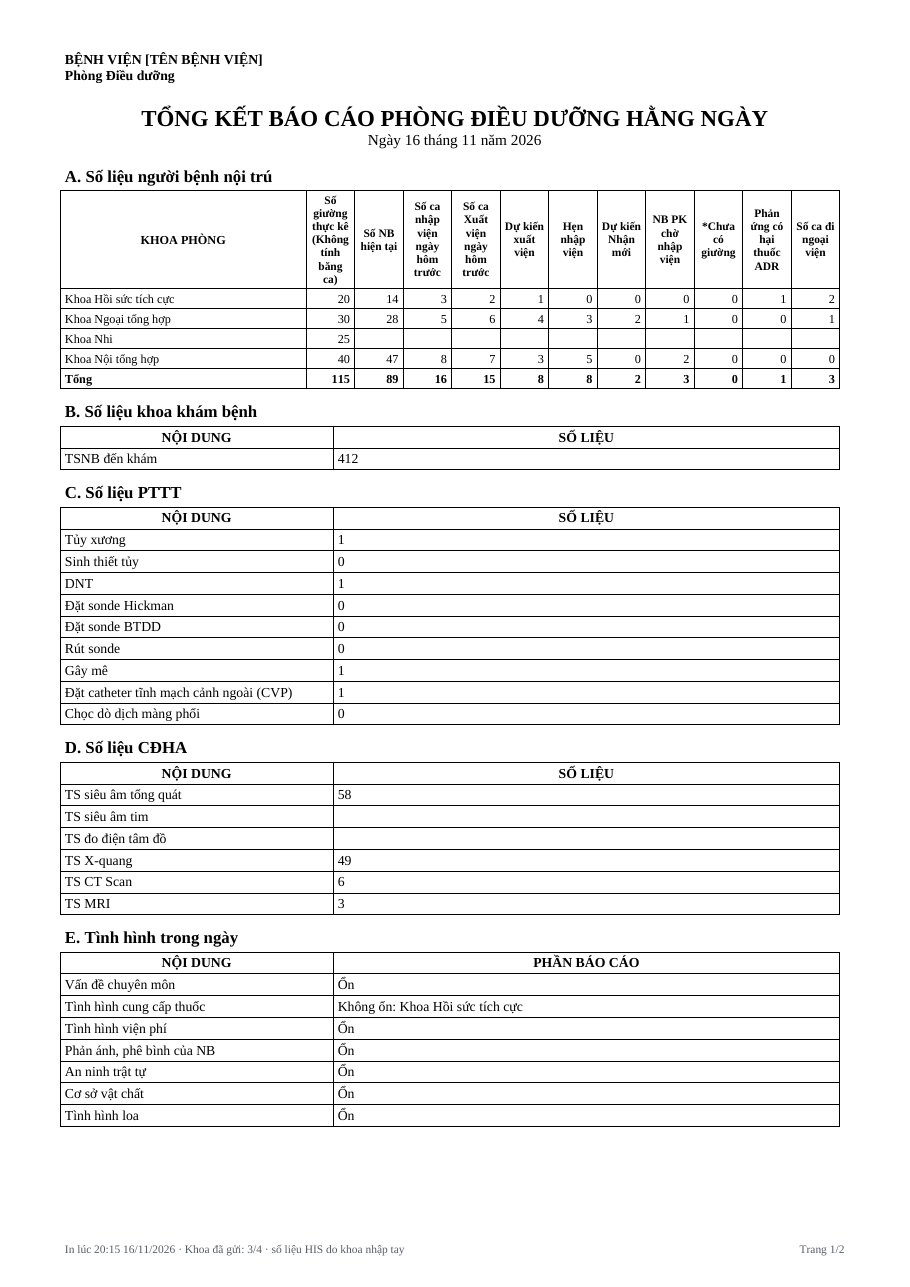
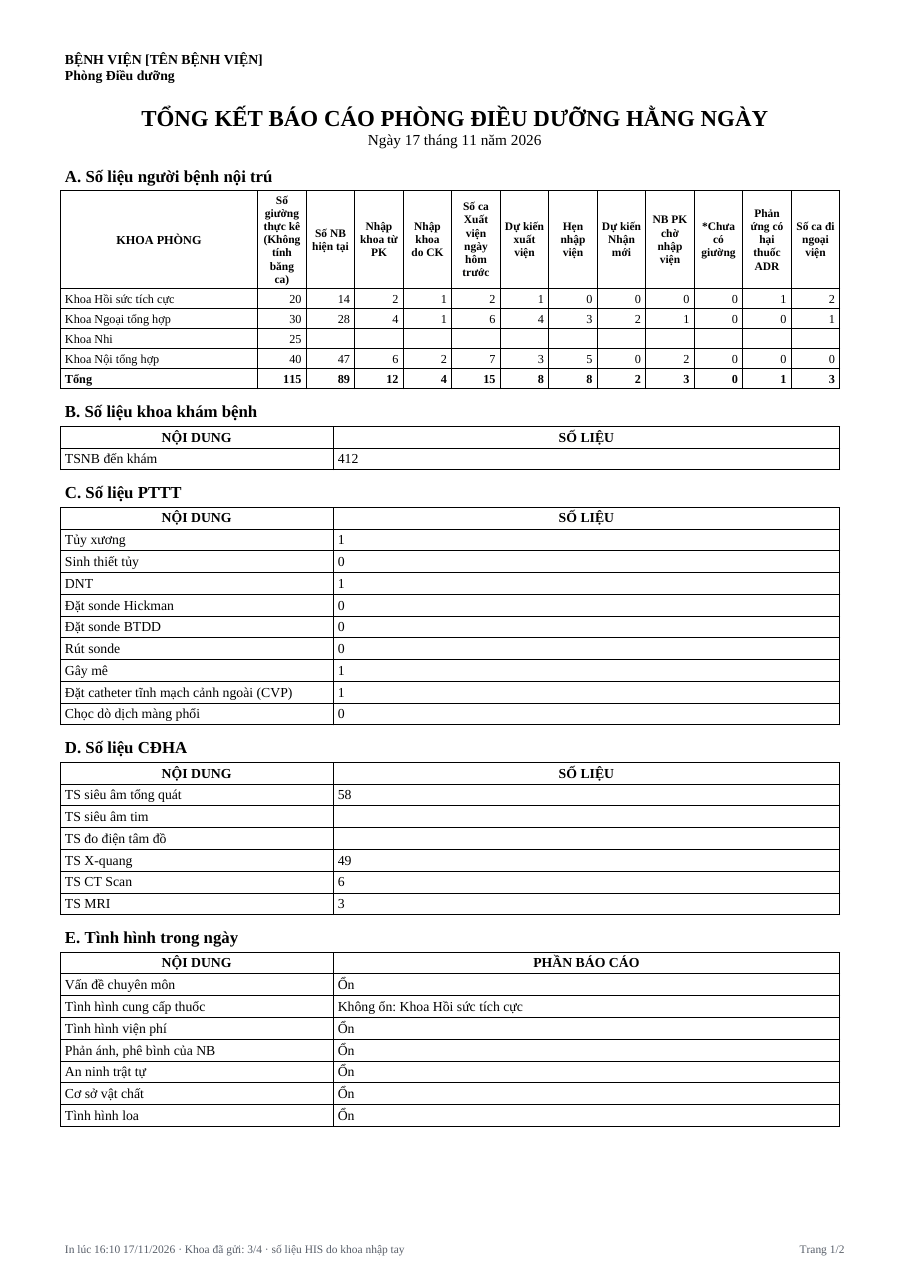
Bảng tổng hợp điều dưỡng: tách cột "Số ca nhập viện ngày hôm trước" thành Nhập khoa từ PK và Nhập khoa do CK (quyết định 38)
Bệnh viện yêu cầu tách cột ở mục A của bảng tổng hợp Phòng Điều dưỡng. Bảng
tổng hợp cộng số từ báo cáo khoa, nên báo cáo khoa cũng tách dòng.
- Báo cáo khoa, mục VI: dòng "Số ca nhập viện ngày hôm trước" thay bằng "Số ca
  nhập khoa từ PK ngày hôm trước" và "Số ca nhập khoa do CK ngày hôm trước"
  (khóa admissionsFromClinic, admissionsByTransfer).
- Bảng tổng hợp mục A: hai cột "Nhập khoa từ PK", "Nhập khoa do CK" đứng đúng
  chỗ cột cũ, trên màn hình, PDF và Excel. Excel lấy số cột theo mẫu (trước đây
  cố định 11 cột). Cột số trên màn hình hẹp lại (84 điểm ảnh) để 12 cột vẫn vừa
  màn hình 1366 điểm ảnh.
- Báo cáo lưu trước đó chỉ có số tổng (khóa cũ admissionsYesterday): vẫn đọc
  được để nhận ra, hai cột mới của khoa đó để trống, không ghi 0; khóa cũ
  không nhập mới được.
- Test: mẫu (thứ tự cột, tên cột và dòng), tổng hợp có hai cột mới, báo cáo cũ
  để trống, khóa cũ bị từ chối; PDF báo cáo khoa và bảng tổng hợp; Excel 13
  cột (A–M).
- Tài liệu: hướng dẫn sử dụng 9.1, 9.2 (chụp lại ảnh bảng tổng hợp và PDF bảng
  tổng hợp), triển khai 5.7, quyết định 38. Không có migration.

Claude-Session: https://claude.ai/code/session_01HqEeJxKsVGMM8DuiZkvcED

Changed region(s): [[0.2769, 0.1554, 0.4923, 0.2486]]

diff --git a/frontend/src/features/nursing/NursingSummaryPage.tsx b/frontend/src/features/nursing/NursingSummaryPage.tsx
@@ -217,7 +217,8 @@ export function SummaryView({ summary, onOpen }: { summary: NursingSummary; onOp
       title: c.header,
       key: c.key,
       align: 'right' as const,
-      width: 96,
+      // 12 cột số (quyết định 38) vẫn vừa màn hình rộng 1366 điểm ảnh, không phải cuộn ngang.
+      width: 84,
       render: (_: unknown, row: NursingSummaryRow) => number(row.cells[c.key]),
     })),
   ]

diff --git a/backend/tests/Consent.Application.Tests/NursingReportServiceTests.cs b/backend/tests/Consent.Application.Tests/NursingReportServiceTests.cs
@@ -274,7 +274,8 @@ public sealed class NursingReportServiceTests
         var surgeryNurse = _ctx.AddUser("dieuduong.ngoaib", SystemRoles.Nurse, departmentId: _surgery.Id);
         await SubmitAsync(_surgery, surgeryNurse, new()
         {
-            ["currentPatients"] = 20, ["admissionsYesterday"] = 4, ["dischargesYesterday"] = 3, ["expectedDischarges"] = 2,
+            ["currentPatients"] = 20, ["admissionsFromClinic"] = 3, ["admissionsByTransfer"] = 1, ["dischargesYesterday"] = 3,
+            ["expectedDischarges"] = 2,
             ["newAdmissions"] = 1, ["adr"] = 1, ["outsideExams"] = 1, ["transfers"] = 1,
             ["boneMarrow"] = 2, ["paracentesis"] = 5, ["cvp"] = 1,
         });
@@ -300,6 +301,8 @@ public sealed class NursingReportServiceTests
         Assert.Equal(surgeryNurse.FullName, surgery.SubmittedBy);
         Assert.Equal(25, surgery.Cells["beds"]);
         Assert.Equal(20, surgery.Cells["currentPatients"]);
+        Assert.Equal(3, surgery.Cells["admissionsFromClinic"]);
+        Assert.Equal(1, surgery.Cells["admissionsByTransfer"]);
         Assert.Equal(0, surgery.Cells["scheduledAdmissions"]);
         Assert.Null(surgery.Cells[NursingHisIndicators.WaitingAdmission]);
         Assert.Equal(1, surgery.Cells["adr"]);
@@ -739,6 +742,39 @@ public sealed class NursingReportServiceTests
     }
 
     [Fact]
+    public async Task Summary_LeavesTheSplitAdmissionColumnsBlank_ForReportsSavedBeforeTheSplit()
+    {
+        // Báo cáo đã gửi trước khi tách cột (quyết định 38): chỉ có số tổng "Số ca nhập viện ngày hôm trước".
+        var legacy = NursingDailyReport.Create(
+            _ward.Id, Today, """{"values":{"admissionsYesterday":4,"currentPatients":40},"checks":{}}""", null, _nurse.Id, _ctx.Clock.UtcNow);
+        legacy.Submit(_nurse.Id, _ctx.Clock.UtcNow);
+        _ctx.Store.NursingReports.Add(legacy);
+        var surgeryNurse = _ctx.AddUser("dieuduong.ngoaib", SystemRoles.Nurse, departmentId: _surgery.Id);
+        await SubmitAsync(_surgery, surgeryNurse, new() { ["admissionsFromClinic"] = 2 });
+
+        ActAs(_office, Permissions.NursingReportsRead, Permissions.NursingReportsManage);
+        var summary = await _ctx.CreateNursingSummaryService().GetAsync(Today, CancellationToken.None);
+
+        var ward = summary.Rows.Single(r => r.DepartmentId == _ward.Id);
+        Assert.Null(ward.Cells["admissionsFromClinic"]);
+        Assert.Null(ward.Cells["admissionsByTransfer"]);
+        Assert.Equal(40, ward.Cells["currentPatients"]);
+        Assert.Equal(0, ward.Cells["noBed"]);
+        // Báo cáo mới bỏ trống một dòng thì tính 0 như mọi ô khác.
+        var surgery = summary.Rows.Single(r => r.DepartmentId == _surgery.Id);
+        Assert.Equal(2, surgery.Cells["admissionsFromClinic"]);
+        Assert.Equal(0, surgery.Cells["admissionsByTransfer"]);
+        Assert.Equal(2, summary.Totals["admissionsFromClinic"]);
+        Assert.Equal(0, summary.Totals["admissionsByTransfer"]);
+
+        // Khoa không nhập mới được số tổng cũ.
+        ActAs(_nurse, Permissions.NursingReportsSubmit);
+        var old = await _ctx.CreateNursingReportService().SaveAsync(
+            Request(new() { ["admissionsYesterday"] = 4 }, date: Today.AddDays(-1)), CancellationToken.None);
+        Assert.True(old.Error!.FieldErrors!.ContainsKey("values.admissionsYesterday"));
+    }
+
+    [Fact]
     public void Form_FollowsThePaperForm()
     {
         var form = NursingReportService.Form;
@@ -747,11 +783,21 @@ public sealed class NursingReportServiceTests
             ["I. NHÂN SỰ", "II. NHÂN VIÊN TRONG NGÀY", "III. TÌNH HÌNH NGƯỜI BỆNH", "IV. PHẢN ỨNG CÓ HẠI THUỐC (ADR)",
              "V. SỐ CA ĐI NGOẠI VIỆN", "VI. SỐ LƯỢNG NB"],
             form.Sections.Select(s => s.Title));
-        Assert.Equal([4, 8, 30, 0, 4, 8], form.Sections.Select(s => s.Items.Count));
+        Assert.Equal([4, 8, 30, 0, 4, 9], form.Sections.Select(s => s.Items.Count));
         Assert.Equal("adr", form.Sections[3].ValueKey);
         Assert.Equal(8, form.Checks.Count);
-        Assert.Equal(55, NursingReportForm.ValueKeys.Count);
-        Assert.Equal(11, NursingReportForm.SummaryColumns.Count);
+        Assert.Equal(56, NursingReportForm.ValueKeys.Count);
+        // Bảng A: cột "Số ca nhập viện ngày hôm trước" của bản giấy tách thành nhập khoa từ PK và do CK (quyết định 38).
+        Assert.Equal(
+            ["beds", "currentPatients", "admissionsFromClinic", "admissionsByTransfer", "dischargesYesterday", "expectedDischarges",
+             "scheduledAdmissions", "newAdmissions", "waitingAdmission", "noBed", "adr", "outsideVisits"],
+            NursingReportForm.SummaryColumns.Select(c => c.Key));
+        Assert.Equal("Nhập khoa từ PK", NursingReportForm.SummaryColumns[2].Header);
+        Assert.Equal("Nhập khoa do CK", NursingReportForm.SummaryColumns[3].Header);
+        Assert.Equal(
+            ["Số ca nhập khoa từ PK ngày hôm trước", "Số ca nhập khoa do CK ngày hôm trước"],
+            form.Sections[5].Items.Where(i => NursingReportForm.AdmissionKeys.Contains(i.Key)).Select(i => i.Label));
+        Assert.DoesNotContain(NursingReportForm.LegacyAdmissionsKey, NursingReportForm.ValueKeys);
         Assert.All(NursingReportForm.ProcedureLines, l => Assert.Contains(l.Key, NursingReportForm.ValueKeys));
         Assert.All(NursingReportForm.OutsideVisitKeys, k => Assert.Contains(k, NursingReportForm.ValueKeys));
     }

diff --git a/backend/tests/Consent.Infrastructure.Tests/NursingReportDocumentTests.cs b/backend/tests/Consent.Infrastructure.Tests/NursingReportDocumentTests.cs
@@ -94,7 +94,7 @@ public sealed class NursingReportDocumentTests
             Paragraphs(document).Take(3));
 
         var figures = Rows(tables[1]);
-        Assert.Equal(1 + 4 + 1 + 8 + 1 + 30 + 1 + 1 + 4 + 1 + 8, figures.Count);
+        Assert.Equal(1 + 4 + 1 + 8 + 1 + 30 + 1 + 1 + 4 + 1 + 9, figures.Count);
         Assert.Equal(["I. NHÂN SỰ", ""], figures[0]);
         Assert.Equal(["Điều dưỡng", "18"], figures[1]);
         Assert.Equal(["KTV", ""], figures[2]);
@@ -102,6 +102,10 @@ public sealed class NursingReportDocumentTests
         Assert.Contains(["IV. PHẢN ỨNG CÓ HẠI THUỐC (ADR)", "2"], figures);
         Assert.Contains(["Số NB hiện tại", "47"], figures);
         Assert.Contains(["* Chưa có giường", ""], figures);
+        // "Số ca nhập viện ngày hôm trước" tách thành nhập khoa từ PK và do CK (quyết định 38).
+        var admissions = figures.FindIndex(r => r[0] == "Số ca nhập khoa từ PK ngày hôm trước");
+        Assert.Equal(["Số ca nhập khoa do CK ngày hôm trước", ""], figures[admissions + 1]);
+        Assert.DoesNotContain(figures, r => r[0] == "Số ca nhập viện ngày hôm trước");
         // Dòng tiêu đề mục gộp hai cột, trừ mục IV có ô nhập số.
         Assert.Equal(1, tables[1].Rows[0].Cells[0].MergeRight);
 
@@ -142,15 +146,16 @@ public sealed class NursingReportDocumentTests
             paragraphs);
 
         var inpatients = Rows(tables[1]);
-        Assert.Equal(12, inpatients[0].Length);
+        Assert.Equal(13, inpatients[0].Length);
         Assert.Equal("KHOA PHÒNG", inpatients[0][0]);
         Assert.Equal("Số giường thực kê (Không tính băng ca)", inpatients[0][1]);
-        Assert.Equal("Số ca đi ngoại viện", inpatients[0][11]);
+        Assert.Equal(["Nhập khoa từ PK", "Nhập khoa do CK"], inpatients[0][3..5]);
+        Assert.Equal("Số ca đi ngoại viện", inpatients[0][12]);
         Assert.True(tables[1].Rows[0].HeadingFormat);
         // Khoa sắp theo tên; khoa chưa gửi chỉ có số giường và số HIS.
-        Assert.Equal(["Khoa Ngoại B (giả lập)", "25", "20", "0", "0", "0", "0", "0", "", "0", "0", "1"], inpatients[1]);
-        Assert.Equal(["Khoa Nội A (giả lập)", "48", "", "", "", "", "", "", "2", "", "", ""], inpatients[2]);
-        Assert.Equal(["Tổng", "73", "20", "0", "0", "0", "0", "0", "2", "0", "0", "1"], inpatients[3]);
+        Assert.Equal(["Khoa Ngoại B (giả lập)", "25", "20", "0", "0", "0", "0", "0", "0", "", "0", "0", "1"], inpatients[1]);
+        Assert.Equal(["Khoa Nội A (giả lập)", "48", "", "", "", "", "", "", "", "2", "", "", ""], inpatients[2]);
+        Assert.Equal(["Tổng", "73", "20", "0", "0", "0", "0", "0", "0", "2", "0", "0", "1"], inpatients[3]);
 
         Assert.Equal([["NỘI DUNG", "SỐ LIỆU"], ["TSNB đến khám", "686"]], Rows(tables[2]));
         Assert.Equal(["Tủy xương", "3"], Rows(tables[3])[1]);
@@ -183,11 +188,14 @@ public sealed class NursingReportDocumentTests
         Assert.Equal("Phòng Điều dưỡng", Texts(1)[0]);
         Assert.Equal(NursingReportForm.SummaryTitle, Texts(3)[0]);
         Assert.Equal("Ngày 16 tháng 11 năm 2026", Texts(4)[0]);
-        Assert.Contains("A4:L4", merges);
-        Assert.Contains("A5:L5", merges);
+        // Cột khoa phòng và 12 cột số của bảng A (A–M).
+        Assert.Contains("A4:M4", merges);
+        Assert.Contains("A5:M5", merges);
         Assert.Equal("A. Số liệu người bệnh nội trú", Texts(6)[0]);
         Assert.Equal("KHOA PHÒNG", Texts(7)[0]);
-        Assert.Equal(12, rows[7].Cells.Count);
+        Assert.Equal(13, rows[7].Cells.Count);
+        Assert.Equal("Nhập khoa từ PK", Texts(7)[3]);
+        Assert.Equal("Nhập khoa do CK", Texts(7)[4]);
         Assert.Equal(20, rows[8].Cells[2].Value);
         Assert.Null(rows[9].Cells[2].Value);
         Assert.Equal("Tổng", Texts(10)[0]);

diff --git a/backend/src/Consent.Application/NursingReports/NursingReportForm.cs b/backend/src/Consent.Application/NursingReports/NursingReportForm.cs
@@ -72,6 +72,21 @@ public static class NursingReportForm
 
     public const string AdrKey = "adr";
 
+    /// <summary>Số ca nhập khoa từ phòng khám (PK) ngày hôm trước.</summary>
+    public const string AdmissionsFromClinicKey = "admissionsFromClinic";
+
+    /// <summary>Số ca nhập khoa do chuyển khoa (CK) ngày hôm trước.</summary>
+    public const string AdmissionsByTransferKey = "admissionsByTransfer";
+
+    /// <summary>
+    /// Khóa cũ "Số ca nhập viện ngày hôm trước", trước khi tách thành nhập khoa từ PK và do CK (quyết định 38). Báo cáo đã lưu
+    /// với khóa này vẫn đọc được để nhận ra là báo cáo cũ; không nhập mới được.
+    /// </summary>
+    public const string LegacyAdmissionsKey = "admissionsYesterday";
+
+    /// <summary>Hai dòng tách từ "Số ca nhập viện ngày hôm trước" (quyết định 38).</summary>
+    public static IReadOnlyList<string> AdmissionKeys { get; } = [AdmissionsFromClinicKey, AdmissionsByTransferKey];
+
     public static IReadOnlyList<NursingReportSection> Sections { get; } =
     [
         new("I. NHÂN SỰ",
@@ -140,7 +155,8 @@ public static class NursingReportForm
             new("expectedDischarges", "Dự kiến xuất viện"),
             new("scheduledAdmissions", "Hẹn nhập viện"),
             new("newAdmissions", "Nhận mới"),
-            new("admissionsYesterday", "Số ca nhập viện ngày hôm trước"),
+            new(AdmissionsFromClinicKey, "Số ca nhập khoa từ PK ngày hôm trước"),
+            new(AdmissionsByTransferKey, "Số ca nhập khoa do CK ngày hôm trước"),
             new("dischargesYesterday", "Số ca xuất viện ngày hôm trước"),
             new("noBed", "* Chưa có giường"),
         ]),
@@ -166,12 +182,16 @@ public static class NursingReportForm
     /// <summary>Tên cột "NB PK chờ nhập viện" (người bệnh phòng khám chờ nhập viện) trên bảng tổng hợp.</summary>
     public const string WaitingAdmissionLabel = "NB PK chờ nhập viện";
 
-    /// <summary>Cột số của bảng A, theo thứ tự bản giấy.</summary>
+    /// <summary>
+    /// Cột số của bảng A, theo thứ tự bản giấy; cột "Số ca nhập viện ngày hôm trước" của bản giấy tách thành nhập khoa từ PK và
+    /// do CK (quyết định 38).
+    /// </summary>
     public static IReadOnlyList<NursingSummaryColumn> SummaryColumns { get; } =
     [
         new(BedsColumn, "Số giường thực kê (Không tính băng ca)"),
         new("currentPatients", "Số NB hiện tại"),
-        new("admissionsYesterday", "Số ca nhập viện ngày hôm trước"),
+        new(AdmissionsFromClinicKey, "Nhập khoa từ PK"),
+        new(AdmissionsByTransferKey, "Nhập khoa do CK"),
         new("dischargesYesterday", "Số ca Xuất viện ngày hôm trước"),
         new("expectedDischarges", "Dự kiến xuất viện"),
         new("scheduledAdmissions", "Hẹn nhập viện"),

diff --git a/backend/src/Consent.Application/NursingReports/NursingReportFigures.cs b/backend/src/Consent.Application/NursingReports/NursingReportFigures.cs
@@ -20,7 +20,14 @@ public sealed record NursingReportFigures(IReadOnlyDictionary<string, int> Value
     public bool AllChecksAnswered => NursingReportForm.CheckKeys.All(Checks.ContainsKey);
 
     /// <summary>
-    /// Đọc JSON đã lưu. Bỏ qua khóa không còn trong mẫu (mẫu bớt dòng) và giá trị sai kiểu, để báo cáo cũ luôn mở được.
+    /// Báo cáo lưu trước khi tách "Số ca nhập viện ngày hôm trước" (quyết định 38): có số tổng cũ, không có hai dòng mới.
+    /// </summary>
+    public bool HasOnlyLegacyAdmissions =>
+        Values.ContainsKey(NursingReportForm.LegacyAdmissionsKey) && !NursingReportForm.AdmissionKeys.Any(Values.ContainsKey);
+
+    /// <summary>
+    /// Đọc JSON đã lưu. Bỏ qua khóa không còn trong mẫu (mẫu bớt dòng) và giá trị sai kiểu, để báo cáo cũ luôn mở được. Riêng số
+    /// tổng "Số ca nhập viện ngày hôm trước" cũ được giữ để nhận ra báo cáo cũ (<see cref="HasOnlyLegacyAdmissions"/>).
     /// </summary>
     public static NursingReportFigures Parse(string? json)
     {
@@ -44,7 +51,8 @@ public sealed record NursingReportFigures(IReadOnlyDictionary<string, int> Value
         {
             foreach (var (key, node) in valueNodes)
             {
-                if (NursingReportForm.ValueKeys.Contains(key) && node is JsonValue value && value.TryGetValue<int>(out var number))
+                if ((NursingReportForm.ValueKeys.Contains(key) || key == NursingReportForm.LegacyAdmissionsKey)
+                    && node is JsonValue value && value.TryGetValue<int>(out var number))
                 {
                     values[key] = number;
                 }

diff --git a/backend/src/Consent.Application/NursingReports/NursingSummaryBuilder.cs b/backend/src/Consent.Application/NursingReports/NursingSummaryBuilder.cs
@@ -126,6 +126,8 @@ public static class NursingSummaryBuilder
             NursingReportForm.BedsColumn => department.BedCount,
             NursingHisIndicators.WaitingAdmission => statistics.Waiting(department.Id),
             _ when figures is null => null,
+            // Báo cáo gửi trước khi tách cột chỉ có số tổng: để trống hai cột mới, không ghi 0 (quyết định 38).
+            _ when figures.HasOnlyLegacyAdmissions && NursingReportForm.AdmissionKeys.Contains(column) => null,
             NursingReportForm.OutsideVisitsColumn => NursingReportForm.OutsideVisitKeys.Sum(k => figures.Value(k) ?? 0),
             _ => figures.Value(column) ?? 0,
         };

diff --git a/backend/src/Consent.Infrastructure/Exports/XlsxNursingSummaryWriter.cs b/backend/src/Consent.Infrastructure/Exports/XlsxNursingSummaryWriter.cs
@@ -20,7 +20,8 @@ internal sealed class XlsxNursingSummaryWriter : INursingSummaryWorkbookWriter
     private const string PackageRelNs = "http://schemas.openxmlformats.org/package/2006/relationships";
 
     /// <summary>Số cột của trang: tên khoa và 11 cột số của bảng A.</summary>
-    private const int LastColumn = 11;
+    /// <summary>Cột cuối (đánh số từ 0): cột khoa phòng rồi các cột số của bảng A.</summary>
+    private static readonly int LastColumn = NursingReportForm.SummaryColumns.Count;
 
     private static readonly XmlWriterSettings XmlSettings = new()
     {

diff --git a/docs/KE_HOACH_TRIEN_KHAI.md b/docs/KE_HOACH_TRIEN_KHAI.md
@@ -626,6 +626,7 @@ Toàn bộ dữ liệu test được sinh giả lập (tên, số CCCD ngẫu nh
 | 35 | Số liệu HIS do khoa nhập khi HIS lỗi (16/11/2026) | Bệnh viện yêu cầu: **HIS lỗi thì mỗi khoa nhập số liệu HIS thuộc nhiệm vụ của khoa; Phòng Điều dưỡng chỉ tổng hợp**, không nhập thay (thay cách Phòng Điều dưỡng nhập tay ở quyết định 31). Khoa phải báo cáo nhập **"NB PK chờ nhập viện"** của khoa mình. Mỗi chỉ số toàn viện của mục B (TSNB đến khám) và mục D (6 chỉ số CĐHA) do **khoa được Phòng Điều dưỡng giao** nhập, ví dụ Khoa Khám bệnh, Khoa Chẩn đoán hình ảnh, Khoa Thăm dò chức năng. Phòng Điều dưỡng giao ở hộp *Khoa báo cáo và số giường*; phần mềm lưu vào cấu hình `NursingReports.HisEntryDepartments`. Khoa nhập ở trang **Báo cáo của khoa**, thẻ *Số liệu HIS khoa nhập khi HIS lỗi*; khoa không phải gửi báo cáo thì trang chỉ có thẻ này. Người nhập cần quyền `nursingreports.submit` và đúng khoa. Số khoa nhập **lưu riêng** theo khoa và ngày (bảng `NursingDepartmentStatistics`), không khóa theo báo cáo đã gửi, có ghi nhật ký. Bảng tổng hợp **dùng số lấy từ HIS trước**; ô HIS không có số mới dùng số khoa nhập, kèm chữ "<khoa> nhập tay". Ô trên cùng của bảng ghi khoa nào đã nhập, khoa nào chưa, để Phòng Điều dưỡng nhắc. Chân PDF và Excel ghi "số liệu HIS do khoa nhập tay". Bỏ nút **Nhập số liệu HIS** và API `PUT /statistics` của Phòng Điều dưỡng; số Phòng Điều dưỡng đã nhập trước khi cài gói vẫn được giữ và hiện như cũ. **Giả định** (cách đơn giản nhất): "NB PK chờ nhập viện" của khoa do chính khoa đó nhập, vì khoa biết người bệnh phòng khám đang chờ vào khoa mình; mỗi chỉ số giao cho một khoa, đổi được bất cứ lúc nào; hai khoa cùng có số của một chỉ số (khi đổi khoa được giao) thì dùng số nhập sau cùng. Migration `AddNursingDepartmentStatistics` (1 bảng mới) |
 | 36 | Nút "Trả lại khoa" (17/11/2026) | Bệnh viện gọi việc Phòng Điều dưỡng mở lại báo cáo đã gửi là **"trả lại khoa"** (trả phiếu): nút **Mở lại** ở báo cáo của khoa (bảng tổng hợp) đổi thành **Trả lại khoa** (biểu tượng mũi tên quay lại), hộp *"Trả lại báo cáo cho khoa sửa"*, ô *"Lý do trả lại"*; khoa thấy *"Phòng Điều dưỡng đã trả lại báo cáo cho khoa (người trả lại)"* kèm lý do; các thông báo lỗi của máy chủ dùng cùng chữ. Cách làm không đổi (báo cáo về nháp, bắt buộc lý do, ghi nhật ký). **Không đổi** API (`POST /{id}/reopen`), CSDL, tên quyền và mô tả vai trò trong trang quản trị (vẫn ghi "mở lại báo cáo", đúng nghĩa; vai trò đã cài không bị đổi mô tả) |
 | 37 | Quét QR CCCD: sửa chữ có dấu bị máy quét gõ lỗi (17/11/2026) | Bệnh viện báo: kiosk quét mã QR căn cước trên **VNeID** thì **địa chỉ không đọc được dấu tiếng Việt**. Thử bằng thư viện camera đang dùng (dữ liệu giả lập): camera đọc đúng mọi kiểu mã QR tiếng Việt chuẩn (UTF-8 một hay nhiều đoạn, có hay không có ECI, Unicode tổ hợp). Nguyên nhân hay gặp là **máy quét 2D ở chế độ bàn phím chưa cài đọc tiếng Việt**: gõ mỗi byte UTF-8 thành một ký tự Windows-1252/1258 ("Ä‘Æ°á»ng"). Họ tên trên kiosk vẫn đúng khi lấy từ HIS, còn địa chỉ lấy thẳng từ mã quét nên lộ lỗi. Sửa (chỉ ở trình duyệt, dùng chung cho kiosk và màn hình nhân viên): bộ đọc mã QR **đổi ngược các ký tự đó thành byte rồi đọc lại UTF-8** cho từng trường, trước khi chuẩn hóa Unicode; chữ tiếng Việt đúng không bao giờ đổi ngược được như vậy nên không bị sửa nhầm (cũng sửa được chuỗi bị mã hóa UTF-8 hai lần). **Địa chỉ vẫn hỏng** (máy quét bỏ mất byte, có dấu "?") thì **bỏ**, kèm cảnh báo cho nhân viên; kiosk không gửi, để không lưu chữ hỏng vào hồ sơ và phiếu. *Giả định:* mã QR của VNeID cùng định dạng mã trên thẻ; chưa thử với mã thật (không dùng dữ liệu thật). Máy quét bỏ mất ký tự thì phần mềm không sửa được: vẫn phải cài máy quét xuất Unicode, hoặc dùng camera. **Bổ sung cùng ngày** (ảnh màn hình kiosk bệnh viện gửi): máy quét của kiosk **bỏ hẳn mọi chữ có dấu** ("ng" thay cho "Đường"). Chữ đã mất không khôi phục được; phần mềm nhận ra kiểu này (chuỗi không còn chữ có dấu và có chữ không nguyên âm, điều không có trong tiếng Việt; chữ viết tắt in hoa như TP, KP không tính), **bỏ địa chỉ**, cảnh báo họ tên; **kiosk không lập hồ sơ mới bằng họ tên hỏng** (đã có hồ sơ thì dùng họ tên trong hồ sơ, chưa có thì mời chọn **Nhập thông tin**); giới tính "N" hiểu là Nữ (chữ "ữ" bị bỏ). Bệnh viện phải cài máy quét (Num Lock, xuất Unicode). Không đổi API, CSDL |
+| 38 | Tách cột số ca nhập viện trên bảng tổng hợp (17/11/2026) | Bệnh viện yêu cầu: bảng tổng hợp của Phòng Điều dưỡng, **mục A**, tách cột "Số ca nhập viện ngày hôm trước" thành hai cột **Nhập khoa từ PK** và **Nhập khoa do CK**. Bảng tổng hợp cộng số từ báo cáo khoa, nên **báo cáo khoa mục VI** cũng thay dòng "Số ca nhập viện ngày hôm trước" bằng hai dòng **Số ca nhập khoa từ PK ngày hôm trước** và **Số ca nhập khoa do CK ngày hôm trước** (khóa `admissionsFromClinic`, `admissionsByTransfer`). Hai cột mới đứng đúng chỗ cột cũ, trên màn hình, PDF và Excel (bảng A nay 12 cột số; cột số trên màn hình hẹp lại để vẫn vừa màn hình 1366 điểm ảnh). *Giả định:* PK là phòng khám, CK là chuyển khoa; tên cột theo đúng bệnh viện ghi, còn tên dòng ở báo cáo khoa giữ cụm "ngày hôm trước" cho rõ. **Báo cáo đã lưu trước đó** chỉ có số tổng (khóa cũ `admissionsYesterday`): vẫn mở được, hai cột mới của khoa đó **để trống, không ghi 0**; khóa cũ không nhập mới được. Không có migration |
 
 **Giả định đang áp dụng**
 - Giai đoạn 1 dùng **tài khoản nội bộ** của ứng dụng, chưa tích hợp AD/SSO.

diff --git a/docs/huong-dan-su-dung.md b/docs/huong-dan-su-dung.md
@@ -1114,7 +1114,7 @@ Mỗi khoa lập một **Báo cáo công tác điều dưỡng** mỗi ngày the
    *Hình 9.1. Menu **Điều dưỡng** chỉ hiện với tài khoản được lập hoặc xem báo cáo điều dưỡng.*
 
 2. Báo cáo lập cho khoa của tài khoản (ghi dưới tên phần mềm, góc trên bên trái). Ngày báo cáo mặc định là hôm nay. Muốn lập bù cho ngày trước, chọn ngày ở góc trên bên phải. Lập bù được trong vòng một năm; không chọn được ngày sau hôm nay.
-3. Nhập số liệu theo mẫu giấy. Ô nào không có số thì để trống. Mục **I. Nhân sự** và ô **Số NB theo chỉ tiêu** được điền sẵn theo báo cáo khoa đã gửi gần nhất: kiểm tra lại cho đúng ngày hôm nay.
+3. Nhập số liệu theo mẫu giấy. Ô nào không có số thì để trống. Mục **I. Nhân sự** và ô **Số NB theo chỉ tiêu** được điền sẵn theo báo cáo khoa đã gửi gần nhất: kiểm tra lại cho đúng ngày hôm nay. Ở mục **VI. Số lượng NB**, số ca nhập viện ngày hôm trước nhập riêng hai dòng: **Số ca nhập khoa từ PK ngày hôm trước** (từ phòng khám) và **Số ca nhập khoa do CK ngày hôm trước** (khoa khác chuyển đến).
 
    ![Báo cáo mới của khoa, có số điền sẵn](huong-dan-su-dung/dd-01-bao-cao-khoa.png)
 
@@ -1159,7 +1159,7 @@ Lưu ý:
    - **Khoa đã gửi**: số khoa đã gửi trên số khoa phải báo cáo.
    - Số liệu HIS lấy lúc nào, bởi ai.
    - Khi HIS lỗi: dòng **Khoa nhập tay khi HIS lỗi** cho biết khoa nào đã nhập số liệu HIS, khoa nào chưa nhập (mục 9.5).
-3. **Mục A** có một dòng cho mỗi khoa phải báo cáo, kèm trạng thái **Đã gửi**, **Nháp** hoặc **Chưa lập**. Chỉ báo cáo **đã gửi** được tính. Khoa chưa gửi thì để trống các ô do khoa báo cáo, chỉ có số giường và cột **NB PK chờ nhập viện**. Dòng **Tổng** cộng các khoa.
+3. **Mục A** có một dòng cho mỗi khoa phải báo cáo, kèm trạng thái **Đã gửi**, **Nháp** hoặc **Chưa lập**. Chỉ báo cáo **đã gửi** được tính. Khoa chưa gửi thì để trống các ô do khoa báo cáo, chỉ có số giường và cột **NB PK chờ nhập viện**. Dòng **Tổng** cộng các khoa. Số ca nhập viện ngày hôm trước chia hai cột **Nhập khoa từ PK** và **Nhập khoa do CK**; báo cáo đã gửi trước khi tách cột chỉ có số tổng nên hai cột này để trống.
 4. **Mục C** cộng số liệu thủ thuật các khoa đã gửi. **Mục B**, **mục D** và cột **NB PK chờ nhập viện** là số liệu HIS (mục 9.5).
 
    ![Bảng tổng hợp](huong-dan-su-dung/dd-05-tong-hop.png)
